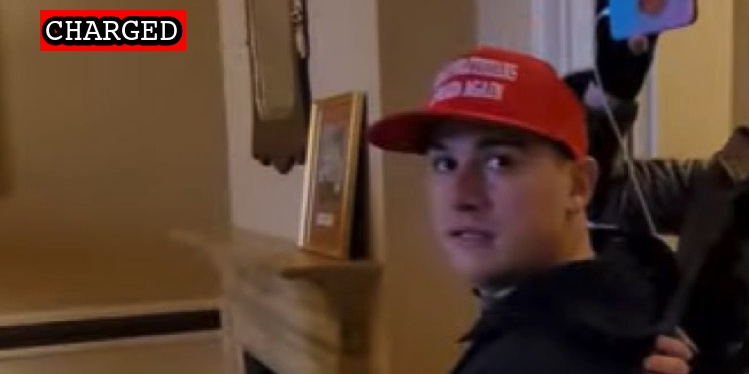
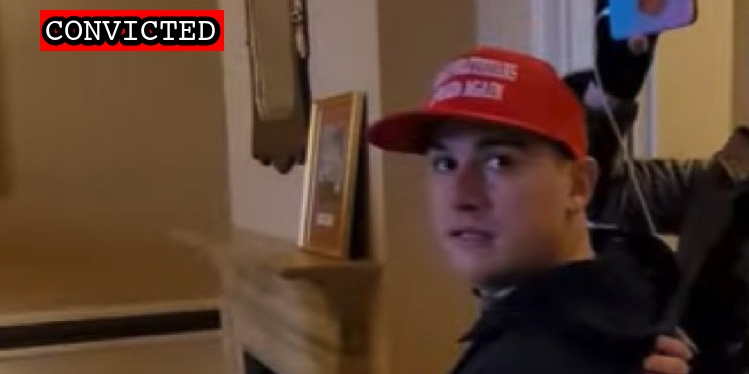
Latest import

Changed region(s): [[0.0614, 0.0, 0.3071, 0.1471]]

diff --git a/docs/_suspects/marcos-panayiotou.md b/docs/_suspects/marcos-panayiotou.md
@@ -4,15 +4,18 @@ lastName: Panayiotou
 hashtag:
 aka:
 residence: Pennsylvania
-status: Charged
+status: Convicted
 date: 2021-11-30
 charged: 2021-11-30
 indicted:
-convicted:
+convicted: 2022-08-26
+acquitted:
 sentenced:
 dismissed:
 deceased:
-plea_hearing:
+plea_hearing: 2022-08-26
+trial_date:
+trial_type:
 sentencing:
 age: 29
 occupation: U.S. Marine Corps Reservist
@@ -34,7 +37,14 @@ published: true
 caseNumber: 1:21-mj-671
 videos:
 charges:
+- code: 40 USC § 5104(e)(2)(G)
+  title: Parading, demonstrating or picketing in a Capitol building
+  url: https://www.law.cornell.edu/uscode/text/40/5104
+  felony: false
 sentence:
 ---
 - [News Report](https://www.nj.com/news/2022/01/ex-marine-among-4-more-suspects-from-nj-charged-in-capitol-riot.html)
 - [Statement of Facts](https://www.justice.gov/usao-dc/case-multi-defendant/file/1459226/download)
+- [Information](https://www.justice.gov/usao-dc/case-multi-defendant/file/1529141/download)
+- [Plea Agreement](https://www.justice.gov/usao-dc/case-multi-defendant/file/1529146/download)
+- [Statement of Offense](https://www.justice.gov/usao-dc/case-multi-defendant/file/1529151/download)

diff --git a/docs/_suspects/jeremy-baouche.md b/docs/_suspects/jeremy-baouche.md
@@ -37,13 +37,14 @@ published: true
 caseNumber: 1:21-cr-733
 videos:
 charges:
-  - code: 40 USC § 5104(e)(2)(G)
-    title: Parading, demonstrating or picketing in a Capitol building
-    url: https://www.law.cornell.edu/uscode/text/40/5104
-    felony: false
+- code: 40 USC § 5104(e)(2)(G)
+  title: Parading, demonstrating or picketing in a Capitol building
+  url: https://www.law.cornell.edu/uscode/text/40/5104
+  felony: false
 sentence:
 ---
-
 - [News Report](https://www.courant.com/breaking-news/hc-br-new-london-man-arrested-capitol-riot-20211112-34gykmlotvhs7drrykkdl6g4pi-story.html)
 - [Statement of Facts](https://www.justice.gov/usao-dc/case-multi-defendant/file/1528881/download)
-- [Information](https://www.justice.gov/usao-dc/case-multi-defendant/file/1528886/download)
+- [Information](https://www.justice.gov/usao-dc/case-multi-defendant/file/1528896/download)
+- [Plea Agreement](https://www.justice.gov/usao-dc/case-multi-defendant/file/1529066/download)
+- [Statement of Offense](https://www.justice.gov/usao-dc/case-multi-defendant/file/1529071/download)

diff --git a/docs/_suspects/landon-manwaring.md b/docs/_suspects/landon-manwaring.md
@@ -4,17 +4,18 @@ lastName: Manwaring
 hashtag:
 aka:
 residence: Utah
-status: Charged
+status: Convicted
 date: 2022-08-10
 charged: 2022-08-10
 indicted:
-convicted:
+convicted: 2022-08-26
 acquitted:
 sentenced:
 dismissed:
 deceased:
 plea_hearing: 2022-08-26
 trial_date:
+trial_type:
 sentencing:
 age:
 occupation:
@@ -36,7 +37,12 @@ published: true
 caseNumber: 1:22-cr-270
 videos:
 charges:
+- code: 40 USC § 5104(e)(2)(G)
+  title: Parading, demonstrating or picketing in a Capitol building
+  url: https://www.law.cornell.edu/uscode/text/40/5104
+  felony: false
 sentence:
 ---
-
 - [Information](https://www.justice.gov/usao-dc/case-multi-defendant/file/1527176/download)
+- [Plea Agreement](https://www.justice.gov/usao-dc/case-multi-defendant/file/1529131/download)
+- [Statement of Offense](https://www.justice.gov/usao-dc/case-multi-defendant/file/1529136/download)

diff --git a/docs/_suspects/erik-herrera.md b/docs/_suspects/erik-herrera.md
@@ -15,6 +15,7 @@ dismissed:
 deceased:
 plea_hearing:
 trial_date: 2022-08-15
+trial_type: Jury
 sentencing: 2022-11-10
 age:
 occupation:
